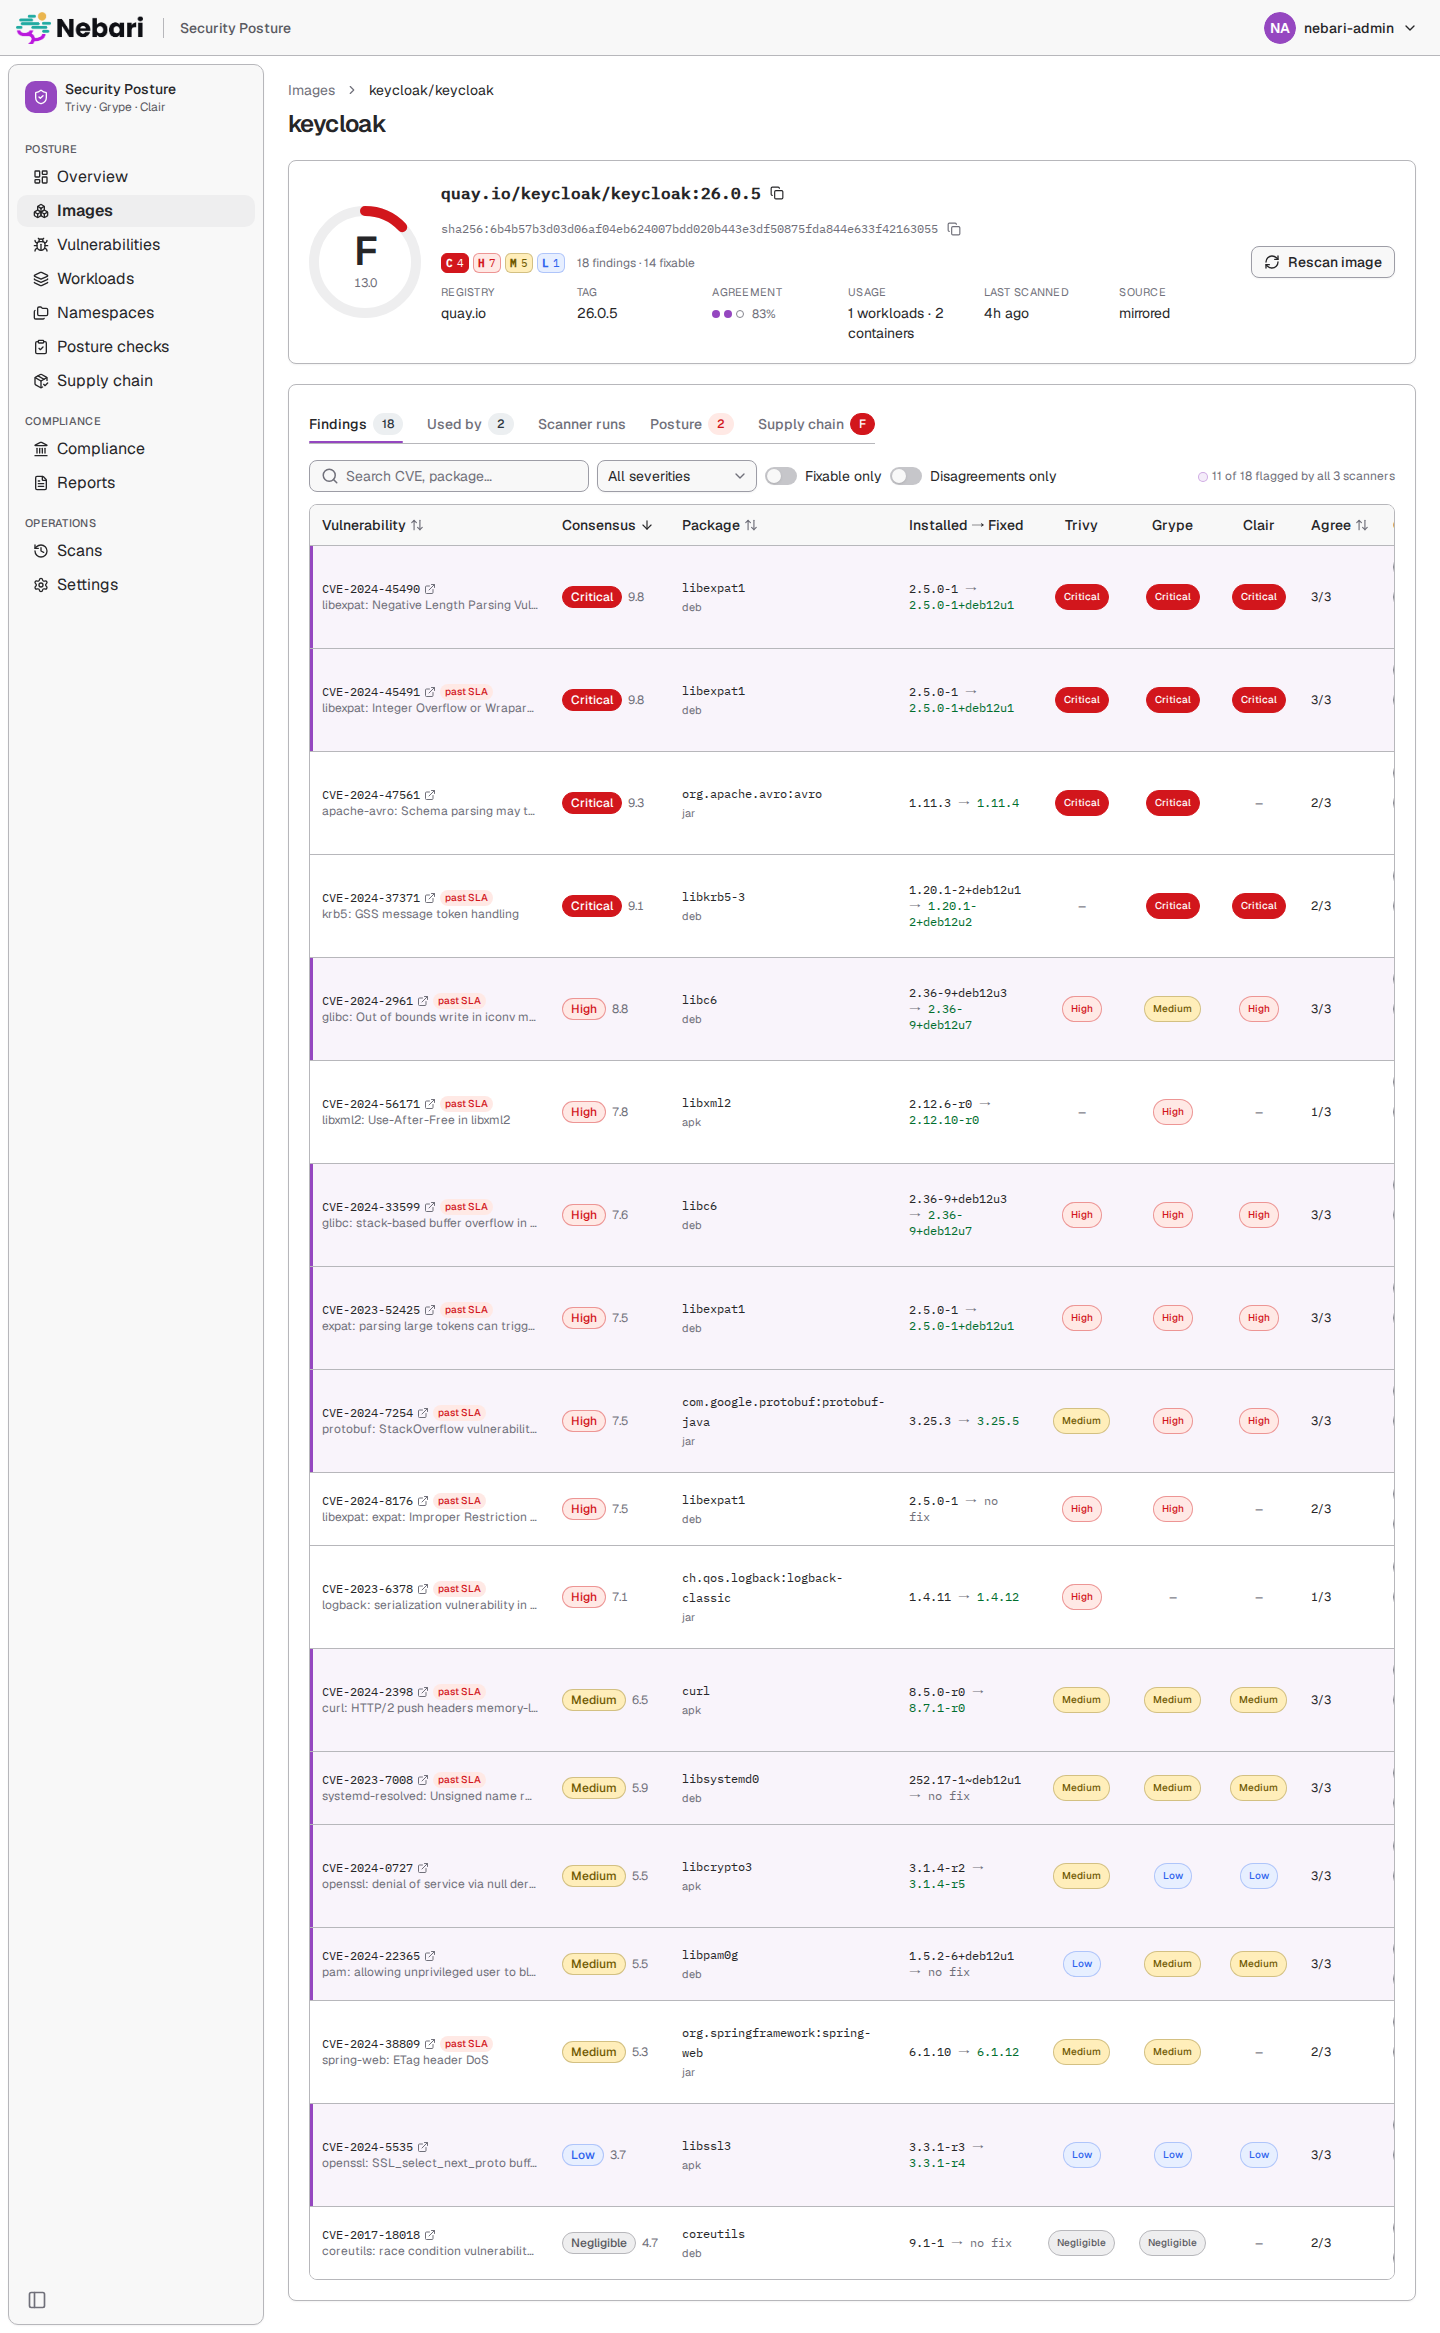
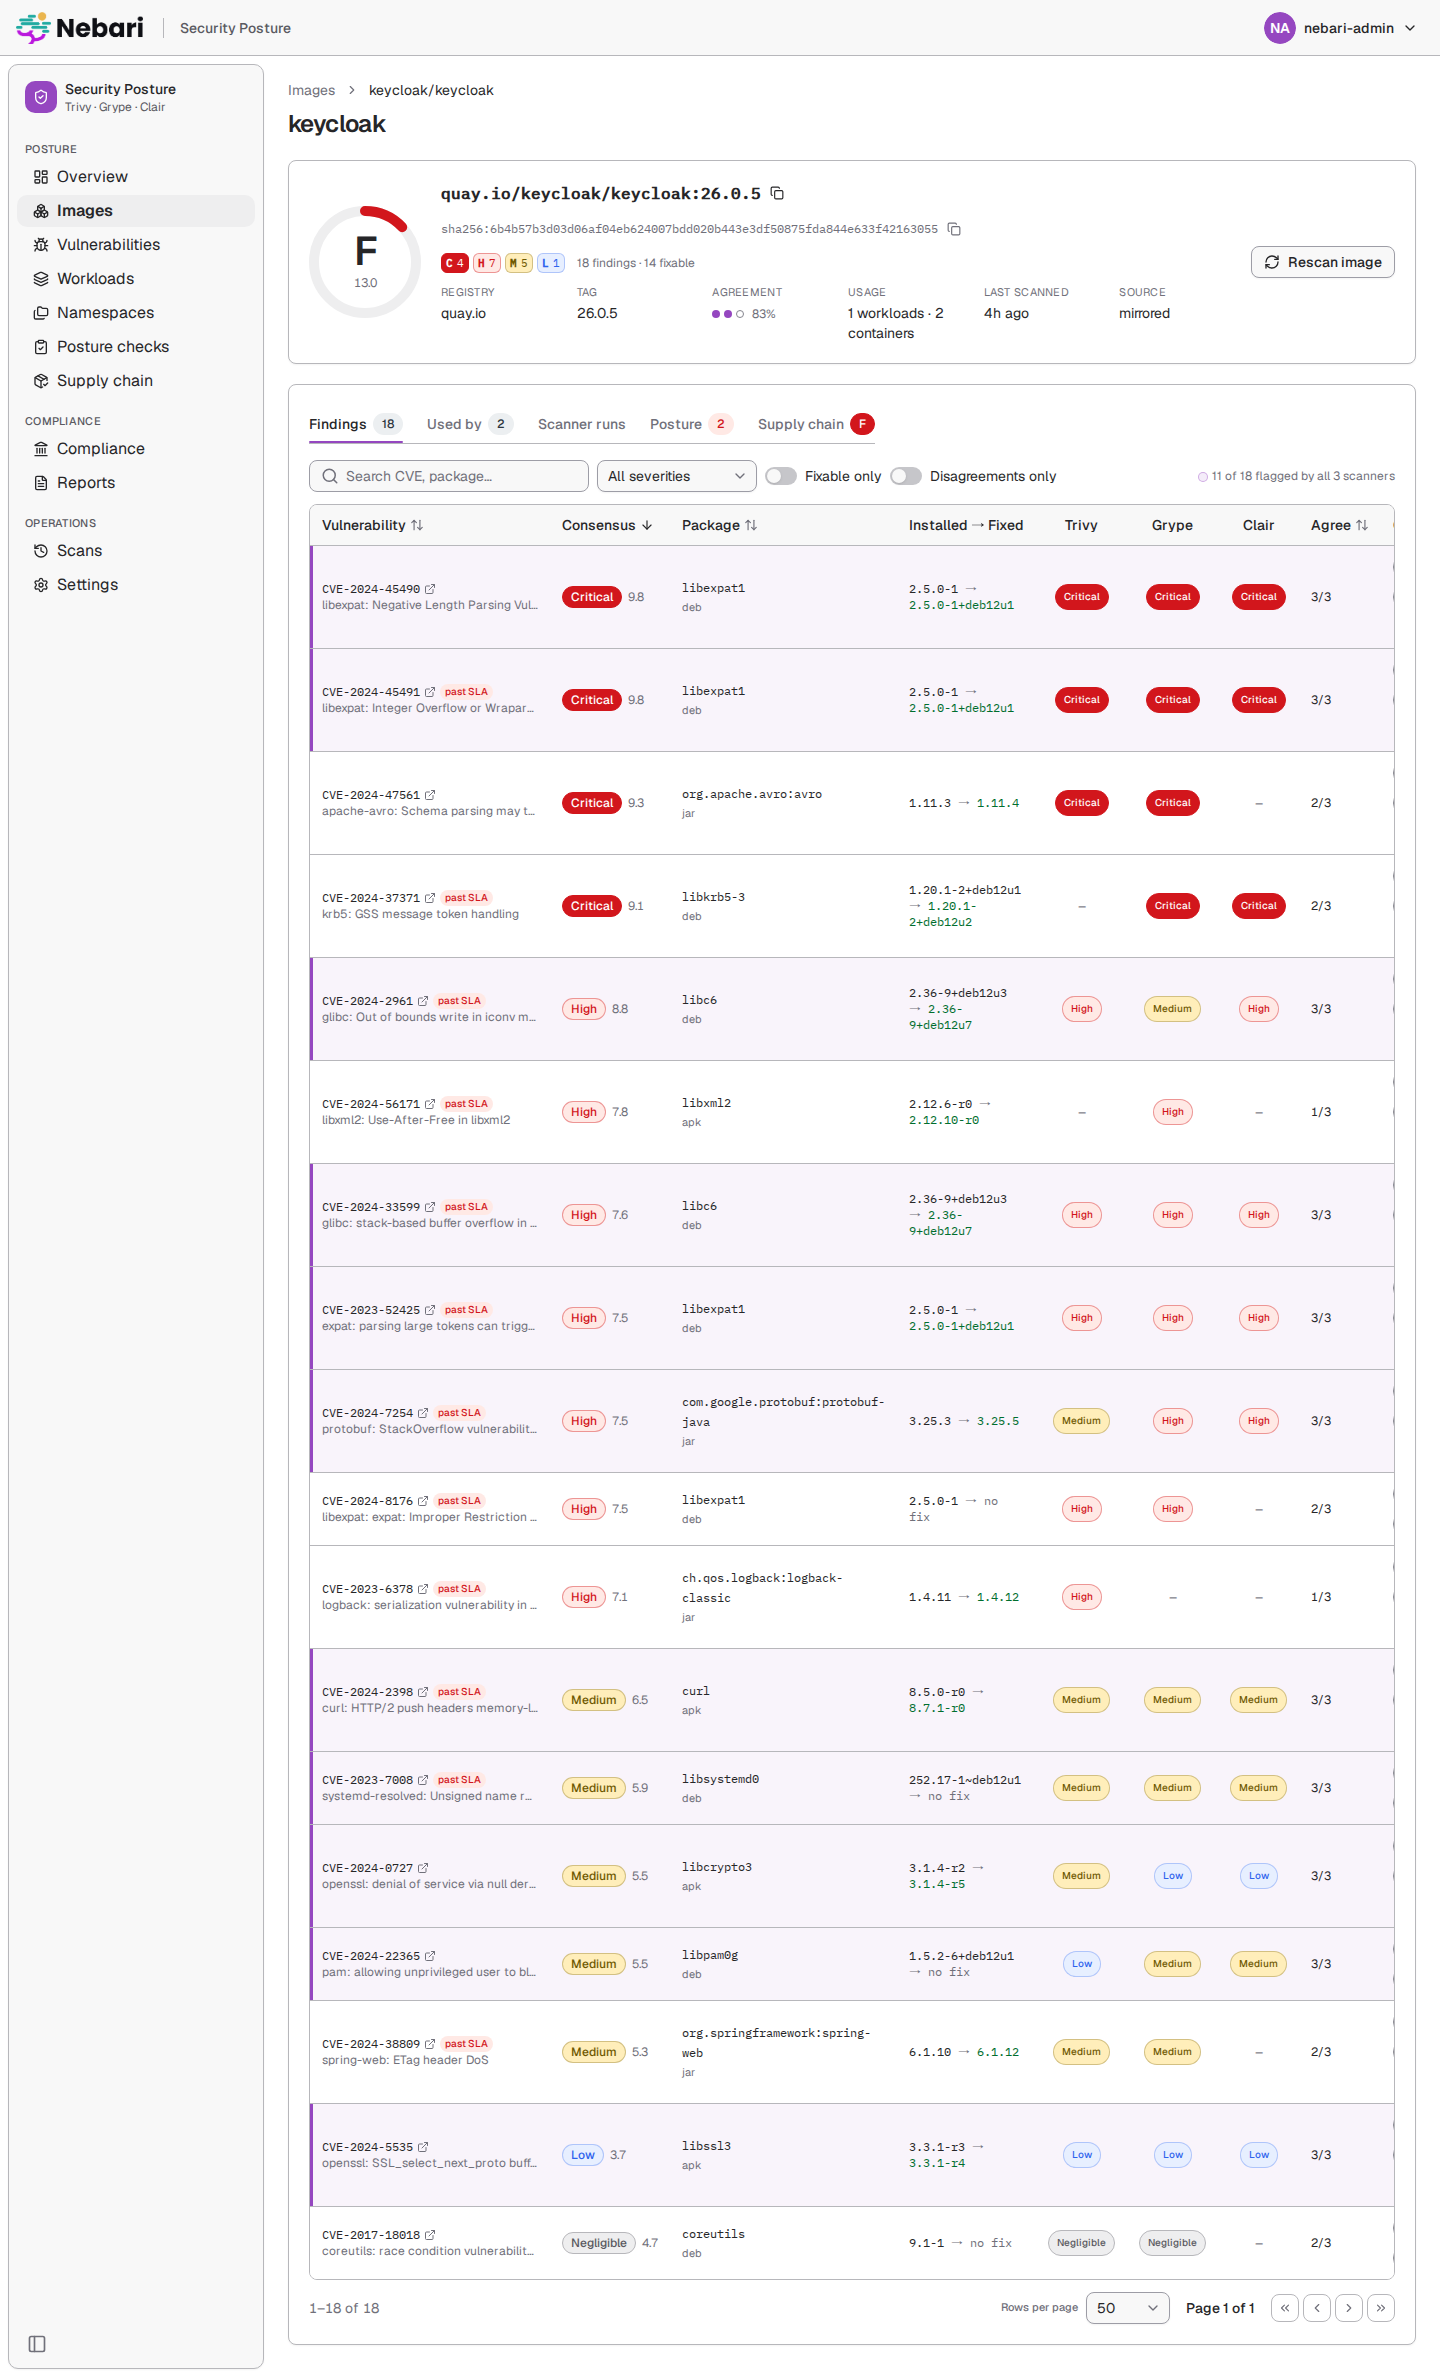
ui: paginate findings, used-by and affected images client-side; host-network screenshots
Image detail Findings (10k+ rows on grace) rendered every row. Findings,
Used by and the CVE detail's affected images now paginate client-side
(50 per page, 25/50/100/250) after filters and sorting; the 'flagged by
all scanners' summary counts the full filtered set. The Vulnerabilities
list was already server-paginated.

screenshots/run.sh no longer runs 'docker network create' (it restarts
MicroK8s on grace); both containers use --network host.

diff --git a/ui/src/components/findings-table.test.tsx b/ui/src/components/findings-table.test.tsx
@@ -1,0 +1,79 @@
+import { render, screen, waitFor, within } from '@testing-library/react';
+import userEvent from '@testing-library/user-event';
+import { createMemoryRouter, RouterProvider } from 'react-router';
+import { describe, expect, it } from 'vitest';
+import type { Finding, ScannerName, Severity } from '@/api/types';
+import { TooltipProvider } from '@/components/ui/tooltip';
+import { FindingsTable } from './findings-table';
+
+const SEVS: Severity[] = ['critical', 'high', 'medium', 'low'];
+const ALL: ScannerName[] = ['trivy', 'grype', 'clair'];
+
+// 260 findings: every 4th is critical; every other one is flagged by all three scanners
+const findings: Finding[] = Array.from({ length: 260 }, (_, i) => {
+  const scanners = i % 2 === 0 ? ALL : (['trivy'] as ScannerName[]);
+  const severity = SEVS[i % 4];
+  return {
+    vulnId: `CVE-2024-${String(10000 + i)}`,
+    severity,
+    package: `pkg-${i}`,
+    installedVersion: '1.0.0',
+    fixedVersion: i % 3 === 0 ? '1.0.1' : null,
+    pkgType: 'deb',
+    scanners,
+    agreement: scanners.length / 3,
+    perScanner: Object.fromEntries(scanners.map((s) => [s, severity])),
+    cvss: null,
+    title: null,
+    url: null,
+    fixable: i % 3 === 0,
+  };
+});
+const ok = { status: 'ok' as const, findings: 0, durationMs: 1 };
+
+function renderTable() {
+  const router = createMemoryRouter([{ path: '/', element: <FindingsTable findings={findings} scanners={{ trivy: ok, grype: ok, clair: ok }} /> }]);
+  return render(
+    <TooltipProvider>
+      <RouterProvider router={router} />
+    </TooltipProvider>,
+  );
+}
+const bodyRows = () => within(screen.getByRole('table', { name: 'Findings' })).getAllByRole('row').slice(1);
+
+describe('FindingsTable pagination', () => {
+  it('renders 50 rows per page with the agreement summary over the full set', () => {
+    renderTable();
+    expect(bodyRows()).toHaveLength(50);
+    expect(screen.getByText('130 of 260 flagged by all 3 scanners')).toBeInTheDocument();
+    expect(screen.getByText('1–50 of 260')).toBeInTheDocument();
+    expect(screen.getByText('Page 1 of 6')).toBeInTheDocument();
+  });
+
+  it('pages through sorted rows (critical first) and resizes pages', async () => {
+    const user = userEvent.setup();
+    renderTable();
+    // default sort = severity desc: the 65 criticals fill page 1 and spill onto page 2
+    expect(bodyRows().every((r) => within(r).getAllByText('Critical').length > 0)).toBe(true);
+    await user.click(screen.getByRole('button', { name: 'Go to next page' }));
+    expect(screen.getByText('51–100 of 260')).toBeInTheDocument();
+    expect(within(bodyRows()[14]).getAllByText('Critical').length).toBeGreaterThan(0);
+    expect(within(bodyRows()[15]).queryAllByText('Critical')).toHaveLength(0);
+    await user.click(screen.getByRole('button', { name: 'Go to last page' }));
+    expect(bodyRows()).toHaveLength(10);
+  });
+
+  it('filters before paginating and returns to page 1', async () => {
+    const user = userEvent.setup();
+    renderTable();
+    await user.click(screen.getByRole('button', { name: 'Go to next page' }));
+    await user.type(screen.getByRole('searchbox', { name: 'Search findings' }), 'CVE-2024-101');
+    // CVE-2024-10100 … 10199 → 100 matches, half agreed by all three
+    await waitFor(() => expect(screen.getByText('50 of 100 flagged by all 3 scanners')).toBeInTheDocument());
+    expect(screen.getByText('1–50 of 100')).toBeInTheDocument();
+    expect(bodyRows()).toHaveLength(50);
+    await user.click(screen.getByText('Disagreements only'));
+    expect(screen.getByText('0 of 50 flagged by all 3 scanners')).toBeInTheDocument();
+    expect(screen.queryByRole('button', { name: 'Go to next page' })).toBeDisabled();
+  });
+});

diff --git a/ui/src/components/findings-table.tsx b/ui/src/components/findings-table.tsx
@@ -6,7 +6,7 @@ import { SCANNERS } from '@/api/types';
 import { EmptyState } from '@/components/page';
 import { ControlChips, SCANNER_LABEL, SeverityBadge } from '@/components/posture';
 import { SimpleSelect } from '@/components/simple-select';
-import { SearchInput, SortableHead, StateRow, Toolbar } from '@/components/table-kit';
+import { Pager, SearchInput, SortableHead, StateRow, Toolbar, useClientPagination } from '@/components/table-kit';
 import { Badge } from '@/components/ui/badge';
 import { Switch } from '@/components/ui/switch';
 import { Table, TableBody, TableCell, TableHead, TableHeader, TableRow } from '@/components/ui/table';
@@ -53,7 +53,9 @@ export function FindingsTable({ findings, scanners }: { findings: Finding[]; sca
     setSort(field);
     setOrder(next);
   };
-  const agreedAll = findings.filter((f) => okScanners.length > 1 && f.scanners.length === okScanners.length).length;
+  // summary over the full filtered set, not just the visible page
+  const agreedAll = rows.filter((f) => okScanners.length > 1 && f.scanners.length === okScanners.length).length;
+  const { pageRows, pagerProps } = useClientPagination(rows, { resetKey: JSON.stringify([q, severity, onlyFixable, onlyDisagree, sort, order, findings.length]) });
   const COLS = 9;
 
   return (
@@ -71,7 +73,7 @@ export function FindingsTable({ findings, scanners }: { findings: Finding[]; sca
         </label>
         <span className="ml-auto text-muted-foreground text-xs">
           <span className="mr-1 inline-block size-2.5 rounded-sm border border-primary/40 bg-primary/10 align-middle" aria-hidden="true" />
-          {agreedAll} of {findings.length} flagged by all {okScanners.length} scanners
+          {agreedAll.toLocaleString()} of {rows.length.toLocaleString()} flagged by all {okScanners.length} scanners
         </span>
       </Toolbar>
       <Table aria-label="Findings">
@@ -98,7 +100,7 @@ export function FindingsTable({ findings, scanners }: { findings: Finding[]; sca
               </EmptyState>
             </StateRow>
           ) : (
-            rows.map((f) => {
+            pageRows.map((f) => {
               const allAgree = okScanners.length > 1 && f.scanners.length === okScanners.length;
               return (
                 <TableRow
@@ -160,6 +162,7 @@ export function FindingsTable({ findings, scanners }: { findings: Finding[]; sca
           )}
         </TableBody>
       </Table>
+      {rows.length > 0 ? <Pager {...pagerProps} /> : null}
     </div>
   );
 }

diff --git a/ui/src/pages/vulnerability-detail.tsx b/ui/src/pages/vulnerability-detail.tsx
@@ -6,12 +6,14 @@ import { CardsSkeleton, ErrorAlert, Meta, PageHeader } from '@/components/page';
 import { ControlChips, GradeBadge, SCANNER_LABEL, SeverityBadge } from '@/components/posture';
 import { Button } from '@/components/ui/button';
 import { Card, CardContent, CardDescription, CardHeader, CardTitle } from '@/components/ui/card';
+import { Pager, useClientPagination } from '@/components/table-kit';
 import { Table, TableBody, TableCell, TableHead, TableHeader, TableRow } from '@/components/ui/table';
 import { ScannerPresence } from '@/pages/vulnerabilities';
 
 export function VulnerabilityDetailPage() {
   const { vulnId = '' } = useParams();
   const { data: vuln, error, isLoading, refetch } = useVuln(vulnId);
+  const { pageRows, pagerProps } = useClientPagination(vuln?.images ?? [], { resetKey: vulnId });
 
   return (
     <>
@@ -56,7 +58,7 @@ export function VulnerabilityDetailPage() {
               <CardTitle>Affected images</CardTitle>
               <CardDescription>Each scanner&apos;s severity for this CVE in each image</CardDescription>
             </CardHeader>
-            <CardContent>
+            <CardContent className="flex flex-col gap-3">
               <Table aria-label="Affected images">
                 <TableHeader>
                   <TableRow className="hover:bg-transparent">
@@ -73,7 +75,7 @@ export function VulnerabilityDetailPage() {
                   </TableRow>
                 </TableHeader>
                 <TableBody>
-                  {vuln.images.map((i) => (
+                  {pageRows.map((i) => (
                     <TableRow key={`${i.imageId}-${i.package}`}>
                       <TableCell className="max-w-[320px] px-3 py-2">
                         <Link to={`/images/${encodeURIComponent(i.imageId)}`} className="block truncate font-mono text-xs underline-offset-4 hover:underline" title={i.ref}>
@@ -98,6 +100,7 @@ export function VulnerabilityDetailPage() {
                   ))}
                 </TableBody>
               </Table>
+              {(vuln.images?.length ?? 0) > pagerProps.pageSizeOptions[0] ? <Pager {...pagerProps} /> : null}
             </CardContent>
           </Card>
         </>

diff --git a/ui/src/pages/image-detail.tsx b/ui/src/pages/image-detail.tsx
@@ -7,6 +7,7 @@ import { useImage } from '@/api/queries';
 import type { ImageDetail } from '@/api/types';
 import { SCANNERS } from '@/api/types';
 import { FindingsTable } from '@/components/findings-table';
+import { Pager, useClientPagination } from '@/components/table-kit';
 import { CardsSkeleton, CopyButton, EmptyState, ErrorAlert, Meta, PageHeader, errorMessage } from '@/components/page';
 import { AgreementDots, ControlChips, GradeRing, SCANNER_LABEL, ScannerStatusIcon, SeverityBadge, SeverityChips, StatusBadge } from '@/components/posture';
 import { Alert, AlertDescription, AlertTitle } from '@/components/ui/alert';
@@ -80,7 +81,9 @@ function Header({ image }: { image: ImageDetail }) {
 }
 
 function UsedBy({ image }: { image: ImageDetail }) {
+  const { pageRows, pagerProps } = useClientPagination(image.usedBy, { resetKey: image.id });
   return (
+    <div className="flex flex-col gap-3">
     <Table aria-label="Containers using this image">
       <TableHeader>
         <TableRow className="hover:bg-transparent">
@@ -101,7 +104,7 @@ function UsedBy({ image }: { image: ImageDetail }) {
             </TableCell>
           </TableRow>
         ) : (
-          image.usedBy.map((u, i) => (
+          pageRows.map((u, i) => (
             <TableRow key={`${u.namespace}/${u.name}/${u.pod ?? i}/${u.container}`}>
               <TableCell className="px-3 py-2">
                 <Link to={`/images?namespace=${encodeURIComponent(u.namespace)}`} className="underline-offset-4 hover:underline">
@@ -121,6 +124,8 @@ function UsedBy({ image }: { image: ImageDetail }) {
         )}
       </TableBody>
     </Table>
+    {image.usedBy.length > pagerProps.pageSizeOptions[0] ? <Pager {...pagerProps} /> : null}
+    </div>
   );
 }
 

diff --git a/ui/src/components/table-kit.tsx b/ui/src/components/table-kit.tsx
@@ -200,3 +200,36 @@ export function StateRow({ cols, children }: { cols: number; children: ReactNode
     </TableRow>
   );
 }
+
+export const CLIENT_PAGE_SIZES = [25, 50, 100, 250];
+
+/**
+ * Client-side pagination over an already filtered + sorted list. `resetKey`
+ * (e.g. the serialised filters/sort) jumps back to page 1 when it changes.
+ */
+export function useClientPagination<T>(rows: T[], { initialPageSize = 50, resetKey = '' }: { initialPageSize?: number; resetKey?: string } = {}) {
+  const [page, setPage] = useState(1);
+  const [pageSize, setPageSize] = useState(initialPageSize);
+  const [key, setKey] = useState(resetKey);
+  if (key !== resetKey) {
+    setKey(resetKey);
+    setPage(1);
+  }
+  const pages = Math.max(1, Math.ceil(rows.length / pageSize));
+  const current = Math.min(page, pages);
+  const pageRows = rows.slice((current - 1) * pageSize, current * pageSize);
+  return {
+    pageRows,
+    pagerProps: {
+      page: current,
+      pageSize,
+      total: rows.length,
+      onPage: setPage,
+      onPageSize: (n: number) => {
+        setPageSize(n);
+        setPage(1);
+      },
+      pageSizeOptions: CLIENT_PAGE_SIZES,
+    },
+  };
+}

diff --git a/ui/README.md b/ui/README.md
@@ -80,7 +80,9 @@ Append `?mockAuth=401` or `?mockAuth=403` to any URL to see the session-expired 
 `screenshots/run.sh` builds the mock bundle, serves it with `vite preview`, and captures
 Overview, Images, Image detail (Findings and Supply chain tabs), Supply chain, Compliance (Controls
 tab with one control expanded, and STIG tab) and Reports in light and dark (plus Overview at
-900 px) with Playwright in `mcr.microsoft.com/playwright:v1.63.0-noble`.
+900 px) with Playwright in `mcr.microsoft.com/playwright:v1.63.0-noble`. Both containers use
+`--network host` (preview on `127.0.0.1:$PORT`, default 4173); the script must never run
+`docker network create`, which restarts MicroK8s on the grace host.
 
 ## API assumptions (§12 / §13)
 
